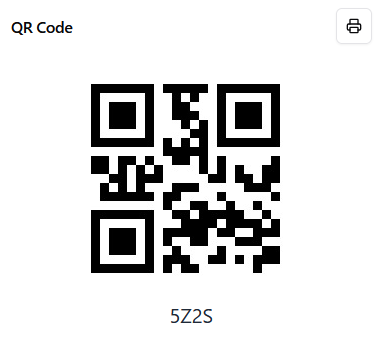
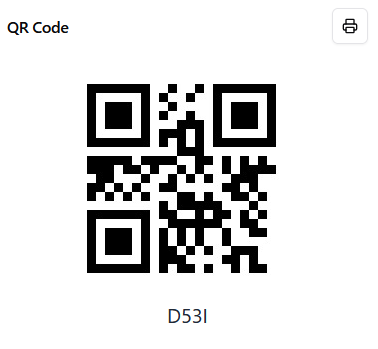
Updated QR code

diff --git a/README.md b/README.md
@@ -4,11 +4,11 @@
 
 ### Svelte (Admin Panel)
 
-* https://washed-up.frederikbarbre.dk
+- https://washed-up.frederikbarbre.dk
 
 ### Expo (User Frontend)
 
-* [Link til Android .apk](https://expo.dev/accounts/washed_up/projects/washedup/builds/c60c72ab-3fca-48d1-a5f6-9122d87d6b21)
+- [Link til Android .apk](https://expo.dev/accounts/washed_up/projects/washedup/builds/c60c72ab-3fca-48d1-a5f6-9122d87d6b21)
 
 Da Apple kræver $100 for at få æren for at installere preview builds af appen, kræver det desværre at man kører et build lokalt, ønsker man at teste appen på iOS. Se nedenstående steps omkring lokal installation.
 
@@ -49,31 +49,31 @@ Disse QR-koder kan bruges til at registere en ny bruger, eller scanne en maskine
 
 ![QR Location](https://github.com/eaaa-dob-wu-e24a/final-project-fucc/blob/main/qr_location.png)
 
-#### Maskine #7 (Ved ovenstående lokation)
+#### Maskine #5 (Ved ovenstående lokation)
 
 ![QR Machine](https://github.com/eaaa-dob-wu-e24a/final-project-fucc/blob/main/qr_machine.png)
 
 ## Lokal installation
 
 Ønsker man at teste projektet lokalt på sit IOS Device skal man gøre følgende:
- 
+
 - Installer **Expo Go** appen i App Store:
 - Klon projektet og åben de i din foretrukne editor
-- Opret en ```.env.local```fil på på følgende sti: ```/frontend-expo/.env.local```, og indsæt variabler der kan findes i den afleverede PDF fil.
-- ```cd /frontend-expo```
-- ```bun i``` eller ```npm i --force```
-- ```bun go``` eller ```npm go```
+- Opret en `.env.local`fil på på følgende sti: `/frontend-expo/.env.local`, og indsæt variabler der kan findes i den afleverede PDF fil.
+- `cd /frontend-expo`
+- `bun i` eller `npm i --force`
+- `bun go` eller `npm go`
 - Du vil få en QR kode i terminalen du kan scanne med dit kamera på dit IOS device, som vil åbne projektet op i **Expo Go** appen.
 
-For at installere nødvendige depandencies, kør igennem terminalen, npm install (eller bun install) i roden og i frontend-expo.
+For at installere nødvendige dependencies, kør igennem terminalen, npm install (eller bun install) i roden og i frontend-expo.
 
 For at teste development lokalt, kan man i frontend-svelte skrive "npm run dev", i frontend-expo "npm go" for at starte appen i Expo Go, og i backend-laravel "php artisan serve" for at starte php serveren.
 
 ## Kode kommentering
 
-Da vi har arbejdet i 3 forskellige frameworks, kan det være lidt svært at finde comments. Derfor har vi lavet en liste så i let kan finde de stier vi primært har arbejdet i. 
+Da vi har arbejdet i 3 forskellige frameworks, kan det være lidt svært at finde comments. Derfor har vi lavet en liste så i let kan finde de stier vi primært har arbejdet i.
 
-**NB** Vi har ikke kommenteret shadcn-components.
+**NB!** Vi har ikke kommenteret shadcn-components.
 
 | Framework | Path                             |
 | --------- | -------------------------------- |
